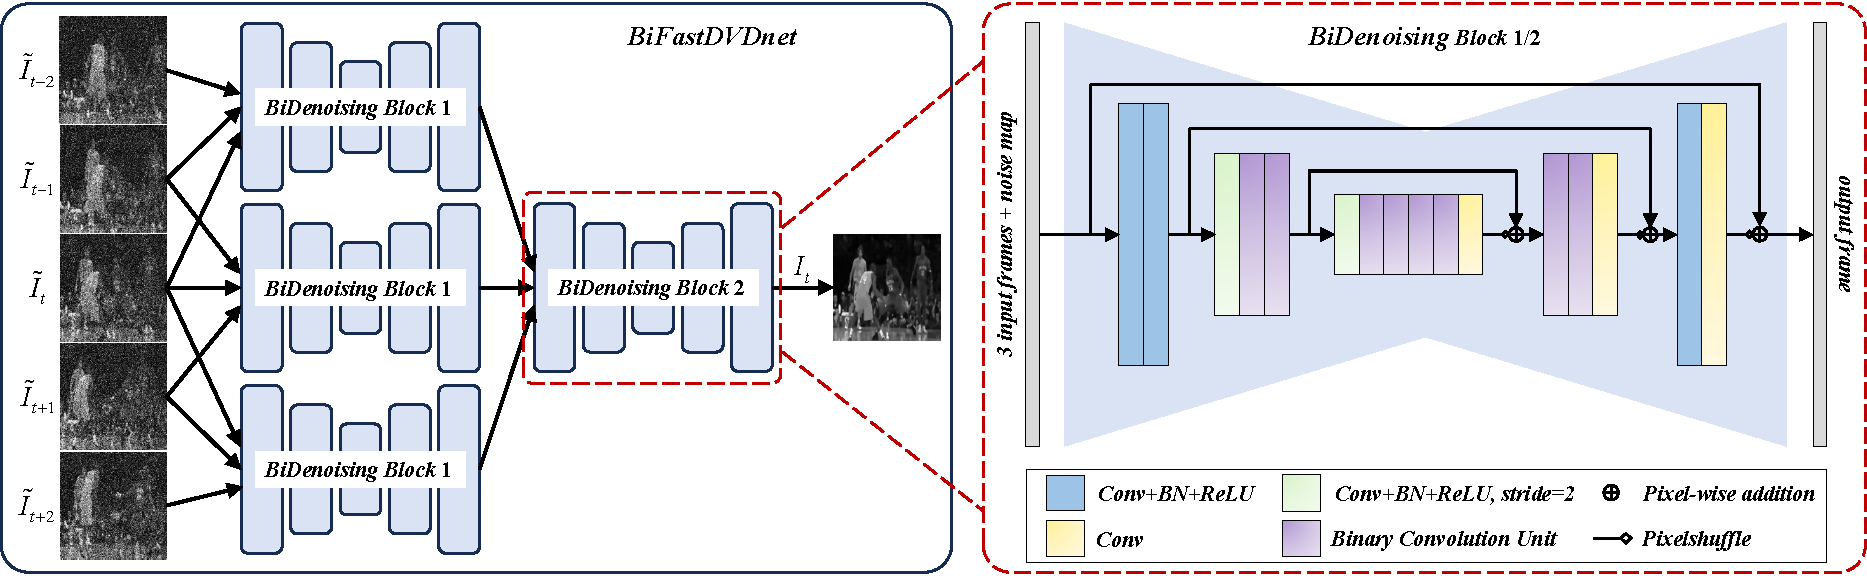
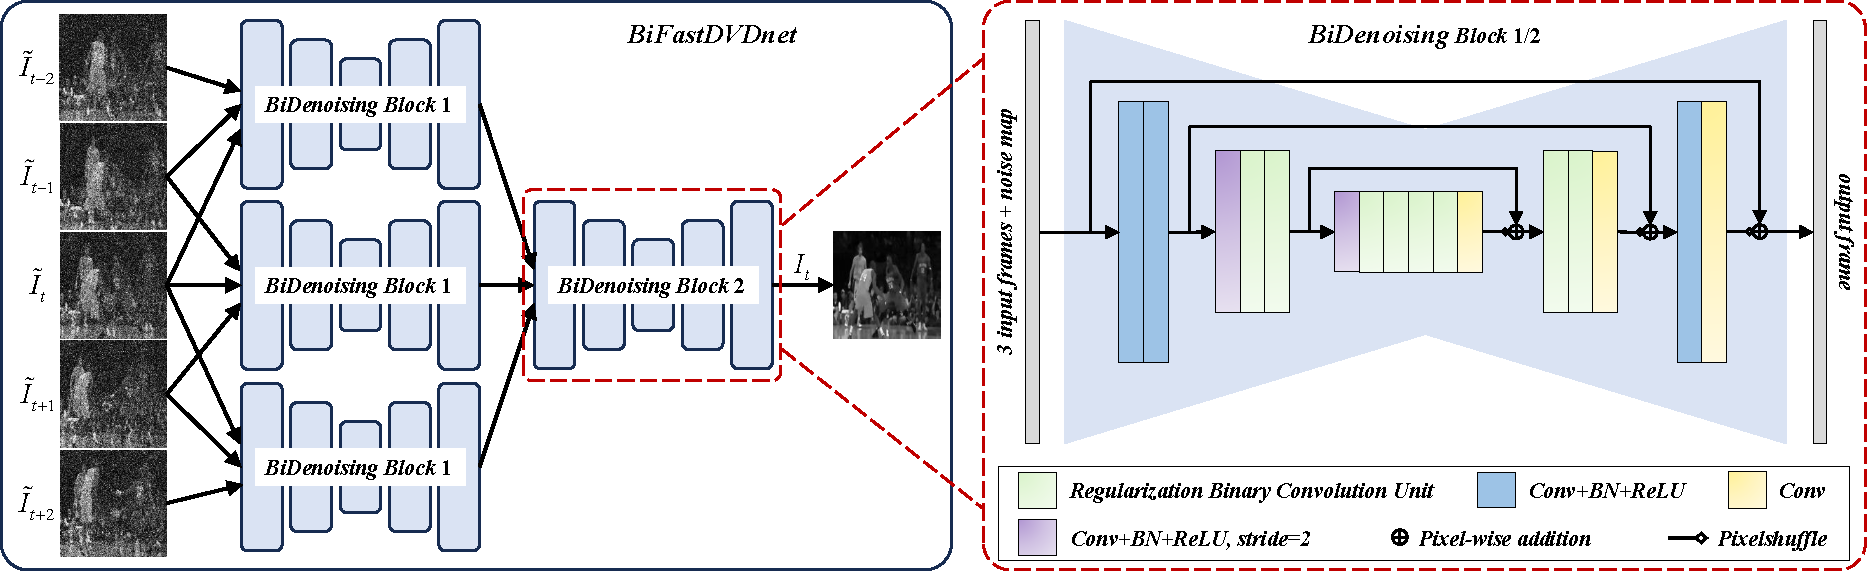
revise readme.md

diff --git a/BDPnP/README.md b/BDPnP/README.md
@@ -1,18 +1,6 @@
-# [Efficient and Robust Plug-and-Play Algorithm for Video Snapshot Compressive Imaging and Photomechanical Measurement](https://github.com/Qinmengxi/EfficientPnP)
+# [Binary Deep Prior Guided Snapshot Compressive Imaging](https://github.com/hnu-VML/qmx/tree/main/BDPnP)
 
-## Network Architecture
-<div align="center">
-  <img src="image/SCI.png" width=100% />  
-  
-  Fig1. Schematic diagrams of video SCI system. The orange part represents hardware encoding, and the blue part denotes software decoding (implemented via PnP-based methods).
-</div>
-
-<div align="center">
-  <img src="image/rco-bdpnp.png" width=100% />  
-  
-  Fig2. Schematic diagrams of efficient binary deep plug-and-play algorithm with collaborative optimization for robust video SCI and applications.
-</div>
-
+## Binary Deep Prior
 <div align="center">
   <img src="image/BiFastDVDnet.png" width=100% />  
   
@@ -24,7 +12,7 @@
     <tr>
       <td>
         <img src="image/binaryconv.png" width="100%" />
-        <p align="center">(a) Binary Convolution Unit Module.</p>
+        <p align="center">(a) Regularization Binary Convolution Unit.</p>
       </td>
       <td>
         <img src="image/approxsign.png" width="100%" />
@@ -47,12 +35,12 @@ cd ./1_PnP_Algorithm/
 python main_grayscale_benchmark.py
 ```
 
-The reconstruction quality on six simulated grayscale video SCI datasets is reported in Table II and Table Ⅳ.
+The reconstruction quality on six simulated grayscale video SCI datasets is reported in Table Ⅰ and Table Ⅱ.
 <div align="center">
-  <img src="image/TableⅡ.png" width=100% />  
+  <img src="image/TableⅠ.png" width=100% />  
 </div>
 <div align="center">
-  <img src="image/TableⅣ.png" width=100% />  
+  <img src="image/TableⅡ.png" width=100% />  
 </div>
 
 
@@ -84,8 +72,8 @@ compute_error.m
 ```
 The computed displacement errors and corresponding displacement field visualization are illustrated in the figures below.
 <div align="center">
-  <img src="image/TableⅥ.png" width=100% />  
+  <img src="image/TableⅤ.png" width=100% />  
 </div>
 <div align="center">
-  <img src="image/TableⅦ.png" width=100% />  
+  <img src="image/TableⅥ.png" width=100% />  
 </div>
